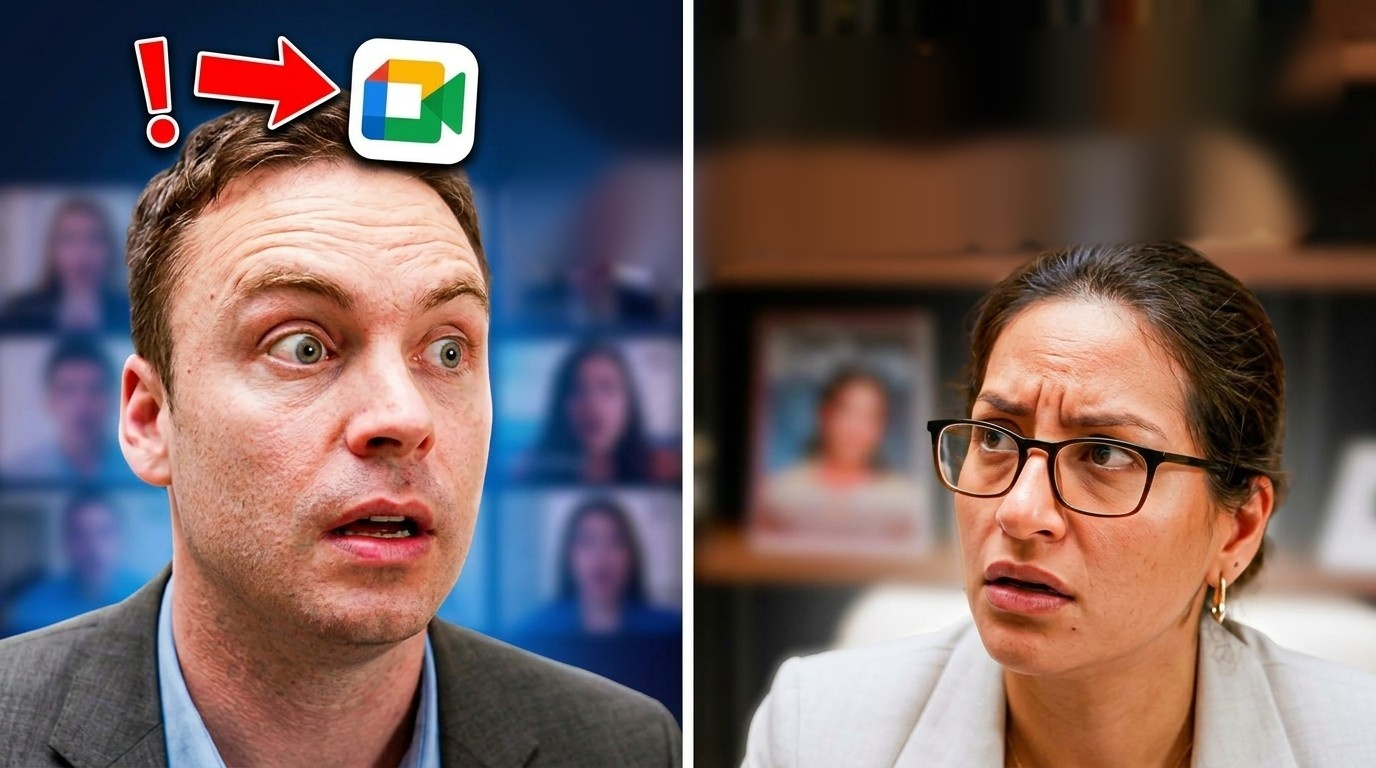
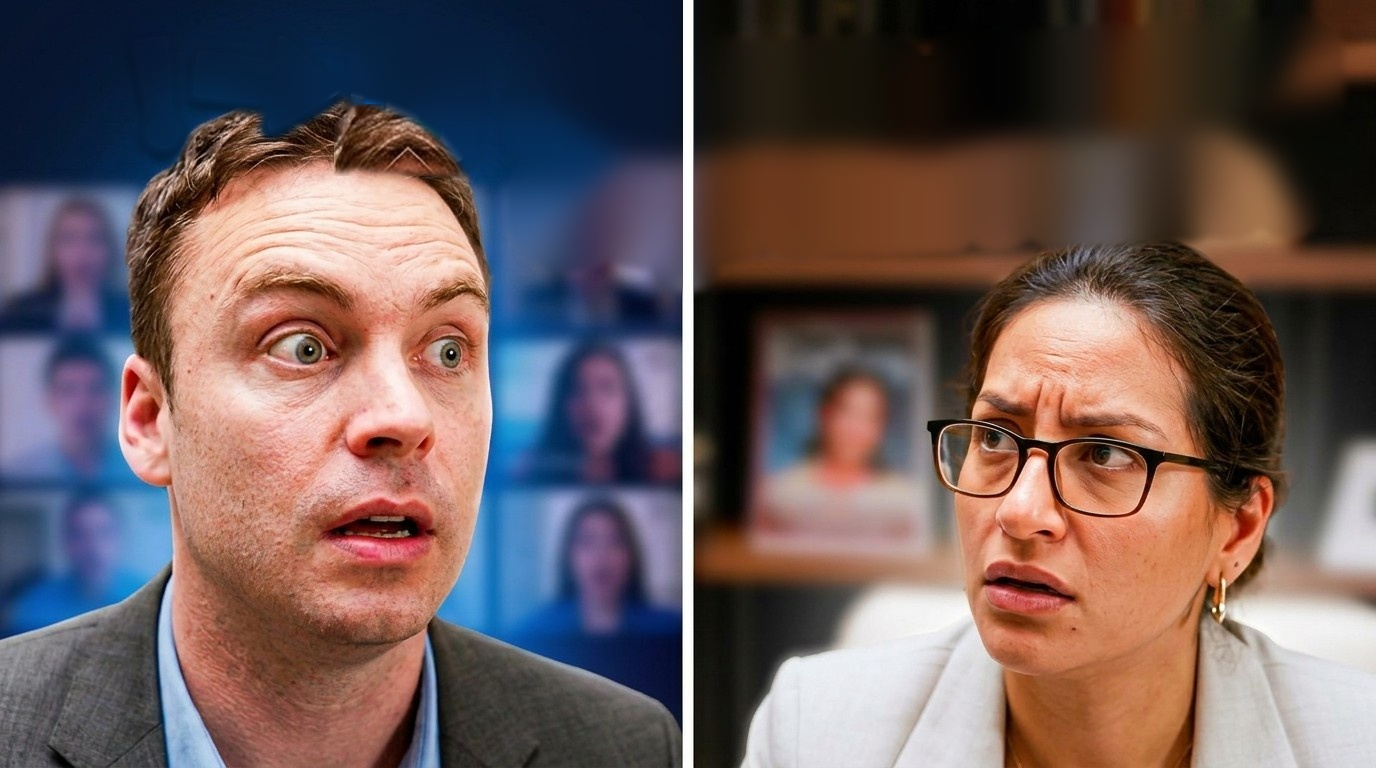
Branded thumbnails for Gemini Panic, Live4ALongTime AI and Dragon Ads
Remove the old headline text, arrows and icon, set the title in the logo
typeface at the lower left, and hide the duplicate card captions.

Claude-Session: https://claude.ai/code/session_014y4GfGcAkkGKmsdvDjjrz4

Changed region(s): [[0.0938, 0.0312, 0.375, 0.25]]

diff --git a/index.html b/index.html
@@ -79,7 +79,7 @@
             <h3 class="card-name">Gemini Panic</h3>
           </div>
         </div>
-        <div class="card" data-yt="PoY37Xwj0vw" data-title="Live4ALongTime AI" role="button" tabindex="0" aria-label="Play Live4ALongTime AI">
+        <div class="card card--titled" data-yt="PoY37Xwj0vw" data-title="Live4ALongTime AI" role="button" tabindex="0" aria-label="Play Live4ALongTime AI">
           <div class="card-art">
             <img src="/assets/images/live4alongtime-thumb.jpg" alt="" loading="lazy">
             <span class="card-play" aria-hidden="true"></span>
@@ -89,7 +89,7 @@
             <h3 class="card-name">Live4ALongTime AI</h3>
           </div>
         </div>
-        <div class="card" data-yt="CGFQr3smYnY" data-title="Dragon Ads" role="button" tabindex="0" aria-label="Play Dragon Ads">
+        <div class="card card--titled" data-yt="CGFQr3smYnY" data-title="Dragon Ads" role="button" tabindex="0" aria-label="Play Dragon Ads">
           <div class="card-art">
             <img src="/assets/images/dragon-ads-thumb.jpg" alt="" loading="lazy">
             <span class="card-play" aria-hidden="true"></span>
